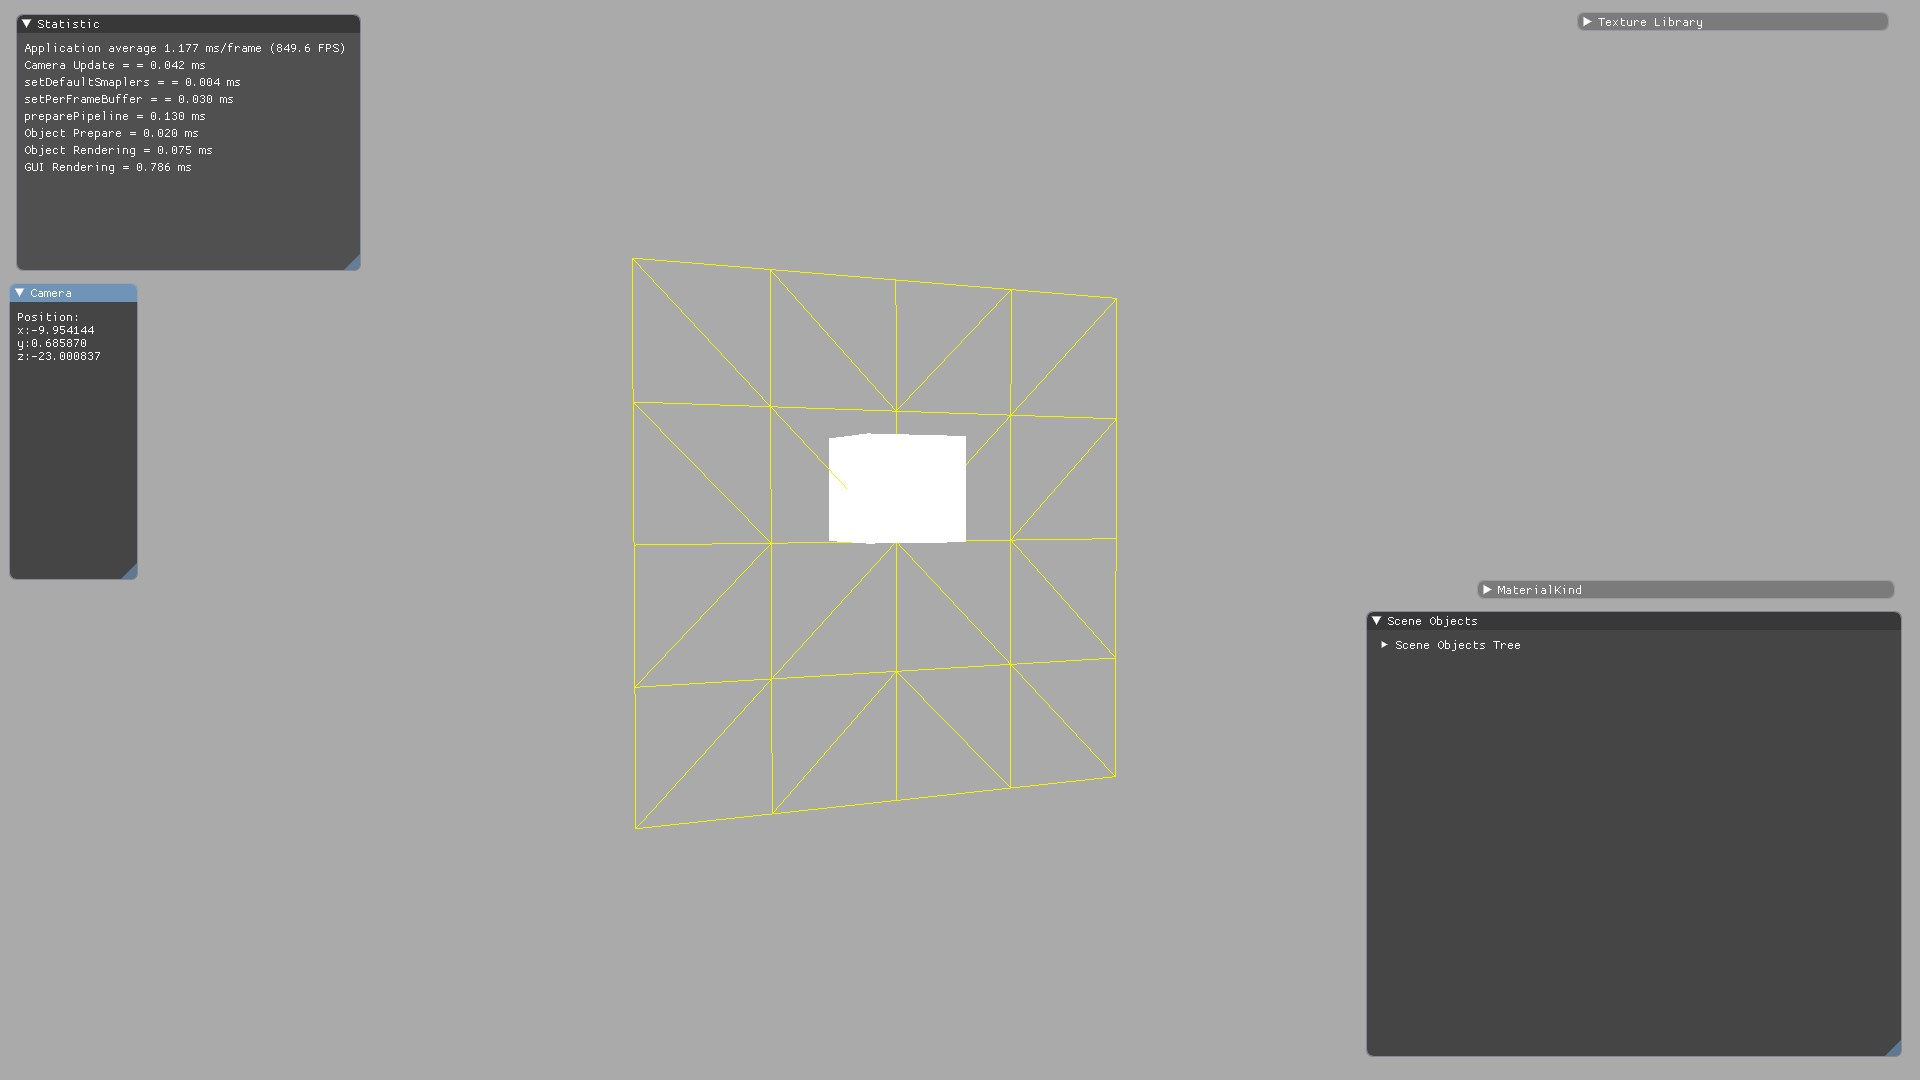
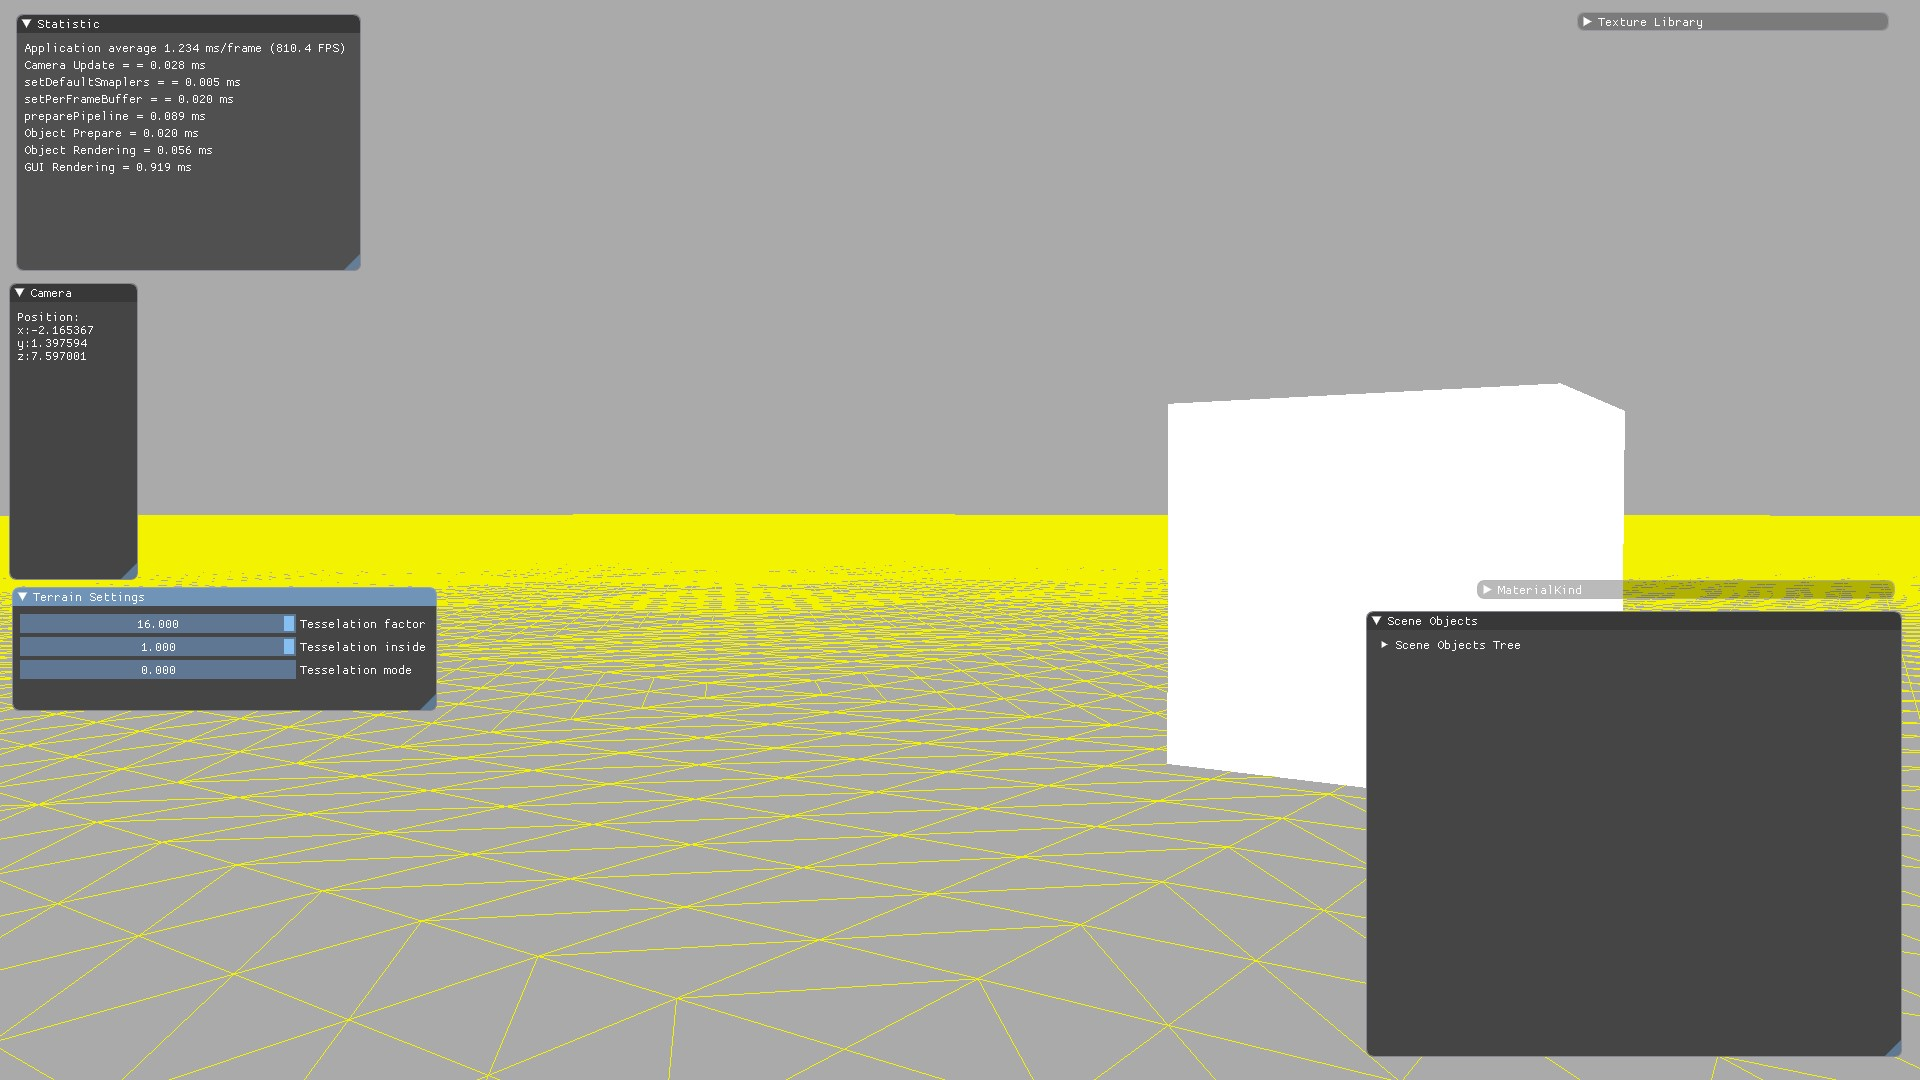
Terrain tesselation rings

diff --git a/src/Engine/Graphics/Scene/TerrainTesselation/Terrain.cpp b/src/Engine/Graphics/Scene/TerrainTesselation/Terrain.cpp
@@ -1,10 +1,14 @@
 #include "Terrain.h"
 #include "D3D/DMD3D.h"
 #include "Logger/Logger.h"
+#include <cmath>
 
+namespace GS
+{
 
-
-Terrain::Terrain()
+Terrain::Terrain() :
+	m_ringCount( 4 ),
+	m_pathSize(4)
 {
 
 }
@@ -17,6 +21,10 @@ Terrain::~Terrain()
 
 bool Terrain::initialize()
 {
+	m_tessParameters.push_back( 4.0 );
+	m_tessParameters.push_back( 1.0 );
+	m_tessParameters.push_back( 0.0 );
+
 	std::string buffer = R"(cbuffer FrameConstantBuffer : register( b0 )
 	{
 		matrix cb_viewMatrix;
@@ -42,6 +50,15 @@ bool Terrain::initialize()
 		float4      g_f2Modes;
 	};
 
+	struct PathParameters
+	{
+		float2 offset;
+		float sizeMultipler;
+		float ppDump;
+	};
+
+	StructuredBuffer<PathParameters> g_instancedPathParameters : register(t16);
+
 	//=================================================================================================================================
 	// Functions
 	//=================================================================================================================================
@@ -58,16 +75,12 @@ bool Terrain::initialize()
 	//=================================================================================================================================
 	// Shader structures
 	//=================================================================================================================================
+	
 
 	struct Position_Input
 	{
-		float3 f3Position   : POSITION0;  
-	};
-
-	struct HS_ConstantOutput
-	{
-		float fTessFactor[3]    : SV_TessFactor;
-		float fInsideTessFactor : SV_InsideTessFactor;
+		float3 f3Position   : POSITION0;
+		uint instanceIndex: SV_InstanceID;
 	};
 
 	struct HS_ConstantOutput_Quad
@@ -97,6 +110,9 @@ bool Terrain::initialize()
     
 		// Pass through world space position
 		O.f3Position = I.f3Position;
+		O.f3Position *= g_instancedPathParameters[I.instanceIndex].sizeMultipler;
+		float2 posOffset = g_instancedPathParameters[I.instanceIndex].offset;
+		O.f3Position.xz += posOffset;
     
 		return O;    
 	}
@@ -108,8 +124,7 @@ bool Terrain::initialize()
 		float2 ritf,itf; float4 rtf;
 		uint mode = (uint)g_f2Modes.x;
 
-		//Process2DQuadTessFactorsMax( float4( 4.0, 4.0, 4.0, 4.0 ), 1.0, rtf, ritf, itf);
-
+		//Process2DQuadTessFactorsMax( float4( 1.0, 1.0, 1.0, 1.0 ), 1.0, rtf, ritf, itf);
 
 
 		switch (mode)
@@ -156,15 +171,17 @@ bool Terrain::initialize()
 
 		float3 p[4]; 
 		[unroll]
-		for (uint i=0; i<4; i++)
+		for( uint i = 0; i < 4; i++ )
 		{
-			p[i]=I[i].f3Position;
+			p[i] = I[i].f3Position;
 		}
 		f3Position = bilerpUV(p, uv);
 
+		
+
 		O.f4Position = float4( f3Position.xyz, 1.0 );
 
-		//O.f4Position = mul(O.f4Position, cb_worldMatrix);
+		O.f4Position = mul(O.f4Position, cb_worldMatrix);
 		O.f4Position = mul(O.f4Position, cb_viewMatrix);
 		O.f4Position = mul(O.f4Position, cb_projectionMatrix);
         
@@ -182,7 +199,7 @@ bool Terrain::initialize()
 
 	)";
 
-	
+
 
 	std::vector<D3D11_INPUT_ELEMENT_DESC> vertexLayout;
 	D3D11_INPUT_ELEMENT_DESC polygonLayout;
@@ -225,11 +242,54 @@ bool Terrain::initialize()
 		return false;
 
 
-	if( !m_path.reinitializeBuffers() )
+	if( !m_path.reinitializeBuffers( m_pathSize ) )
 		return false;
 
 	if( !DMD3D::instance().createShaderConstantBuffer( sizeof( Param ), m_constBuffer ) )
-		return true;
+		return false;
+
+	struct PathParameters
+	{
+		XMFLOAT2 offset;
+		float sizeMultipler;
+		float dump;
+	};
+
+	m_structuredBuffer.createBuffer( sizeof( PathParameters ), 4 + m_ringCount * 12 );
+
+	float worldMultipler = 10.0;
+	
+	std::vector<PathParameters> pathPosition;
+	//central path
+	float offset = (float)m_pathSize / 2.0f * worldMultipler;
+	pathPosition.push_back( { XMFLOAT2( -offset, -offset ), 1.0f * worldMultipler } );
+	pathPosition.push_back( { XMFLOAT2(  offset, -offset ), 1.0f * worldMultipler } );
+	pathPosition.push_back( { XMFLOAT2(  offset,  offset ), 1.0f * worldMultipler } );
+	pathPosition.push_back( { XMFLOAT2( -offset,  offset ), 1.0f * worldMultipler } );
+															   
+	//create rings
+	for( uint16_t ringIndex = 0; ringIndex < m_ringCount; ++ringIndex )
+	{
+		float sizeMultipler = pow( 2, (float)ringIndex ) * worldMultipler;
+		float offset = pow( 2, (float)ringIndex ) * m_pathSize * 0.5 * worldMultipler;
+		float diagonalOffset = offset * 3.0;
+		
+		float offsetIncrementer = 1;
+		pathPosition.push_back( { XMFLOAT2( -diagonalOffset,   diagonalOffset ), sizeMultipler } );
+		pathPosition.push_back( { XMFLOAT2( -diagonalOffset,           offset ), sizeMultipler } );
+		pathPosition.push_back( { XMFLOAT2( -diagonalOffset,		  -offset ), sizeMultipler } );
+		pathPosition.push_back( { XMFLOAT2( -diagonalOffset,  -diagonalOffset ), sizeMultipler } );
+		pathPosition.push_back( { XMFLOAT2(		    -offset,  -diagonalOffset ), sizeMultipler } );
+		pathPosition.push_back( { XMFLOAT2(		     offset,  -diagonalOffset ), sizeMultipler } );
+		pathPosition.push_back( { XMFLOAT2(  diagonalOffset,  -diagonalOffset ), sizeMultipler } );
+		pathPosition.push_back( { XMFLOAT2(  diagonalOffset,          -offset ), sizeMultipler } );
+		pathPosition.push_back( { XMFLOAT2(  diagonalOffset,           offset ), sizeMultipler } );
+		pathPosition.push_back( { XMFLOAT2(  diagonalOffset,   diagonalOffset ), sizeMultipler } );
+		pathPosition.push_back( { XMFLOAT2(  offset,           diagonalOffset ), sizeMultipler } );
+		pathPosition.push_back( { XMFLOAT2( -offset,           diagonalOffset ), sizeMultipler } );
+	}
+
+	m_structuredBuffer.updateData( &pathPosition[0], m_structuredBuffer.sizeofElement() * m_structuredBuffer.numElements() );
 
 	return true;
 }
@@ -237,9 +297,9 @@ bool Terrain::initialize()
 void Terrain::render()
 {
 
-	Param param;
-	param.tessFactors = XMFLOAT4( 4.0, 4.0, 4.0, 4.0 );
-	param.modes = XMFLOAT4( 0.0, 1.0, 0.0, 0.0 );
+	static Param param;
+	param.tessFactors = XMFLOAT4( m_tessParameters[0], m_tessParameters[0], m_tessParameters[0], m_tessParameters[0] );
+	param.modes = XMFLOAT4( m_tessParameters[2], m_tessParameters[1], 0.0, 0.0 );
 
 	Device::updateResource<Terrain::Param>( m_constBuffer.get(), param );
 
@@ -253,10 +313,16 @@ void Terrain::render()
 	DMD3D::instance().GetDeviceContext()->IASetVertexBuffers( 0, 1, &vertexBuffer, &Stride, &Offset );
 	DMD3D::instance().GetDeviceContext()->IASetIndexBuffer( m_path.indexBuffer(), DXGI_FORMAT_R32_UINT, 0 );
 
-
+	m_structuredBuffer.setToSlot( 16, SRVType::vs );
 	DMD3D::instance().GetDeviceContext()->IASetPrimitiveTopology( D3D11_PRIMITIVE_TOPOLOGY_4_CONTROL_POINT_PATCHLIST );
-	m_shader.setDrawType( GS::DMShader::by_index );
+	m_shader.setDrawType( GS::DMShader::by_index_instance );
 	m_shader.setPass( 0 );
-	m_shader.render( m_path.indexCount() );
+	m_shader.renderInstanced( m_path.indexCount(), 0, 0, m_structuredBuffer.numElements() );
 }
 
+std::vector<float>* Terrain::tessFactor()
+{
+	return &m_tessParameters;
+}
+
+}

diff --git a/src/Engine/Graphics/Scene/TerrainTesselation/Path.cpp b/src/Engine/Graphics/Scene/TerrainTesselation/Path.cpp
@@ -18,10 +18,13 @@ bool Path::reinitializeBuffers( uint16_t pathSize )
 	std::vector<XMFLOAT3> rawVertex;
 	rawVertex.reserve( ( pathSize + 1 ) * ( pathSize + 1 ) );
 
-	rawVertex.emplace_back( -5.0, -5.0, 0.0 );
-	rawVertex.emplace_back( 5.0, -5.0, 0.0 );
-	rawVertex.emplace_back( 5.0, 5.0, 0.0 );
-	rawVertex.emplace_back( -5.0, 5.0, 0.0 );
+	for( int32_t j = -pathSize / 2; j < pathSize / 2 + 1; ++j )
+	{	
+		for( int32_t i = -pathSize / 2; i < pathSize / 2 + 1; ++i )
+		{
+			rawVertex.emplace_back( (float)i, 0.0, (float)j );
+		}
+	}
 
 	if( !DMD3D::instance().createVertexBuffer( m_vertexBuffer, &rawVertex[0], rawVertex.size() * sizeof( XMFLOAT3 ) ) )
 	{
@@ -29,8 +32,24 @@ bool Path::reinitializeBuffers( uint16_t pathSize )
 		return false;
 	}
 	
-	const uint32_t indicesQuad[4] = { 0,1,2,3 };
-	if( !DMD3D::instance().createIndexBuffer( m_indexBuffer, (void*)&indicesQuad[0], 4 * sizeof( uint32_t ) ) )
+	std::vector<uint32_t> indicesQuad;
+	indicesQuad.reserve( pathSize * pathSize * 4 );
+
+	for( uint32_t j = 0; j < pathSize; ++j )
+	{
+		uint32_t rowOffset = j * ( pathSize + 1 );
+		for( uint32_t i = 0; i < pathSize; ++i )
+		{	
+			indicesQuad.emplace_back( rowOffset + i );
+			indicesQuad.emplace_back( rowOffset + i + 1 );
+			indicesQuad.emplace_back( rowOffset + pathSize + i + 2 );
+			indicesQuad.emplace_back( rowOffset + pathSize + i + 1 );
+		}
+	}
+
+	m_indexCount = indicesQuad.size();
+
+	if( !DMD3D::instance().createIndexBuffer( m_indexBuffer, (void*)&indicesQuad[0], indicesQuad.size() * sizeof( uint32_t ) ) )
 	{
 		LOG( "Can`t create index buffer" );
 		return false;
@@ -41,7 +60,7 @@ bool Path::reinitializeBuffers( uint16_t pathSize )
 
 uint32_t Path::indexCount()
 {
-	return 4;
+	return m_indexCount;
 }
 
 ID3D11Buffer* Path::vertexBuffer()

diff --git a/src/Engine/Graphics/GUI/GUI.cpp b/src/Engine/Graphics/GUI/GUI.cpp
@@ -111,6 +111,8 @@ void GUI::Frame()
 	renderSceneObject();
 	materialParameterKind();
 
+	terrainSettings();
+
 	// 3. Show another simple window.
 	/*if( show_another_window )
 	{
@@ -274,6 +276,22 @@ void GUI::printCamera( const DMCamera& camera )
 	ImGui::Begin( "Camera", nullptr, ImVec2( 256, 300 ), 1.0 );
 
 	ImGui::Text( "Position:\nx:%f\ny:%f\nz:%f", camera.position().x, camera.position().y, camera.position().z );
+
+	ImGui::End();
+}
+
+void GUI::terrainTessFactor( std::vector<float>* tessFactor )
+{
+	m_terrainTessFactor = tessFactor;
+}
+
+void GUI::terrainSettings()
+{
+	ImGui::Begin( "Terrain Settings", nullptr, ImVec2( 256, 300 ), 1.0 );
+
+	ImGui::SliderFloat( "Tesselation factor", &( m_terrainTessFactor->at( 0 ) ), 1.0, 16.0 );
+	ImGui::SliderFloat( "Tesselation inside", &( m_terrainTessFactor->at( 1 ) ), 0.0, 1.0 );
+	ImGui::DragFloat( "Tesselation mode", &( m_terrainTessFactor->at( 2 ) ), 1.0, 0.0, 2.0 );
 
 	ImGui::End();
 }

diff --git a/src/Engine/Graphics/GUI/GUI.h b/src/Engine/Graphics/GUI/GUI.h
@@ -19,6 +19,8 @@ public:
 	void addCounterInfo( const std::string&, float );
 	void printCamera( const DMCamera& camera );
 
+	void terrainTessFactor( std::vector<float>* tessFactor );
+
 private:
 	void Frame();
 	void clearAfterRender();
@@ -26,12 +28,14 @@ private:
 	void renderMaterialLibrary();
 	void renderSceneObject();
 
+	void terrainSettings();
+
 private:
 	void materialParameterKind();
 
 private:
 	std::vector<std::pair<std::string,float>> m_counterInfoList;
 	bool m_isInited = false;
-	
+	std::vector<float>* m_terrainTessFactor;
 };
 

diff --git a/src/Engine/Graphics/Scene/TerrainTesselation/Terrain.h b/src/Engine/Graphics/Scene/TerrainTesselation/Terrain.h
@@ -2,7 +2,10 @@
 #include "DirectX.h"
 #include "Path.h"
 #include "Scene/Shaders/DMShader.h"
+#include "D3D/DMStructuredBuffer.h"
 
+namespace GS
+{
 
 class Terrain
 {
@@ -20,10 +23,16 @@ public:
 		XMFLOAT4 modes;
 	};
 
+	std::vector<float>* tessFactor();
+
 private:
 	Path m_path;
 	GS::DMShader m_shader;
 	com_unique_ptr<ID3D11Buffer> m_constBuffer;
-
-	
+	std::vector<float> m_tessParameters;
+	DMStructuredBuffer m_structuredBuffer;
+	uint16_t m_ringCount;
+	uint16_t m_pathSize;
 };
+
+}

diff --git a/src/Engine/Graphics/DMGraphics.cpp b/src/Engine/Graphics/DMGraphics.cpp
@@ -81,6 +81,7 @@ bool DMGraphics::Initialize( HINSTANCE hinstance, int screenWidth, int screenHei
 	System::textures().insertResource( std::move( custTexture ) );
 
 	RET_FALSE( m_tessTerrain.initialize() );
+	m_GUI.terrainTessFactor( m_tessTerrain.tessFactor() );
 
 	LOG( "Load materials" );
 	timeStart = TIME_POINT();

diff --git a/src/Engine/Graphics/Scene/Shaders/ConstantBuffers.cpp b/src/Engine/Graphics/Scene/Shaders/ConstantBuffers.cpp
@@ -92,6 +92,7 @@ void ConstantBuffers::setPerObjectBuffer( const XMMATRIX* matrix )
 
 	ID3D11Buffer* buffer = m_modelConstant.get();
 	DMD3D::instance().GetDeviceContext()->VSSetConstantBuffers( 1, 1, &buffer );
+	DMD3D::instance().GetDeviceContext()->DSSetConstantBuffers( 1, 1, &buffer );
 }
 
 }

diff --git a/src/Engine/Graphics/Scene/TerrainTesselation/Path.h b/src/Engine/Graphics/Scene/TerrainTesselation/Path.h
@@ -17,5 +17,6 @@ public:
 private:
 	com_unique_ptr<ID3D11Buffer> m_vertexBuffer;
 	com_unique_ptr<ID3D11Buffer> m_indexBuffer;
+	uint32_t m_indexCount;
 };
 

diff --git a/src/Common/Properties/Property.h b/src/Common/Properties/Property.h
@@ -1,0 +1,16 @@
+#pragma once
+
+
+class Property
+{
+	Property()
+	{
+
+	}
+	~Property()
+	{
+
+	}
+
+	//std::string& name()
+};

diff --git a/src/Common/Properties/PropertyTypes.h b/src/Common/Properties/PropertyTypes.h
@@ -1,0 +1,8 @@
+#pragma once
+
+
+class BasicType
+{
+public:
+	
+};
